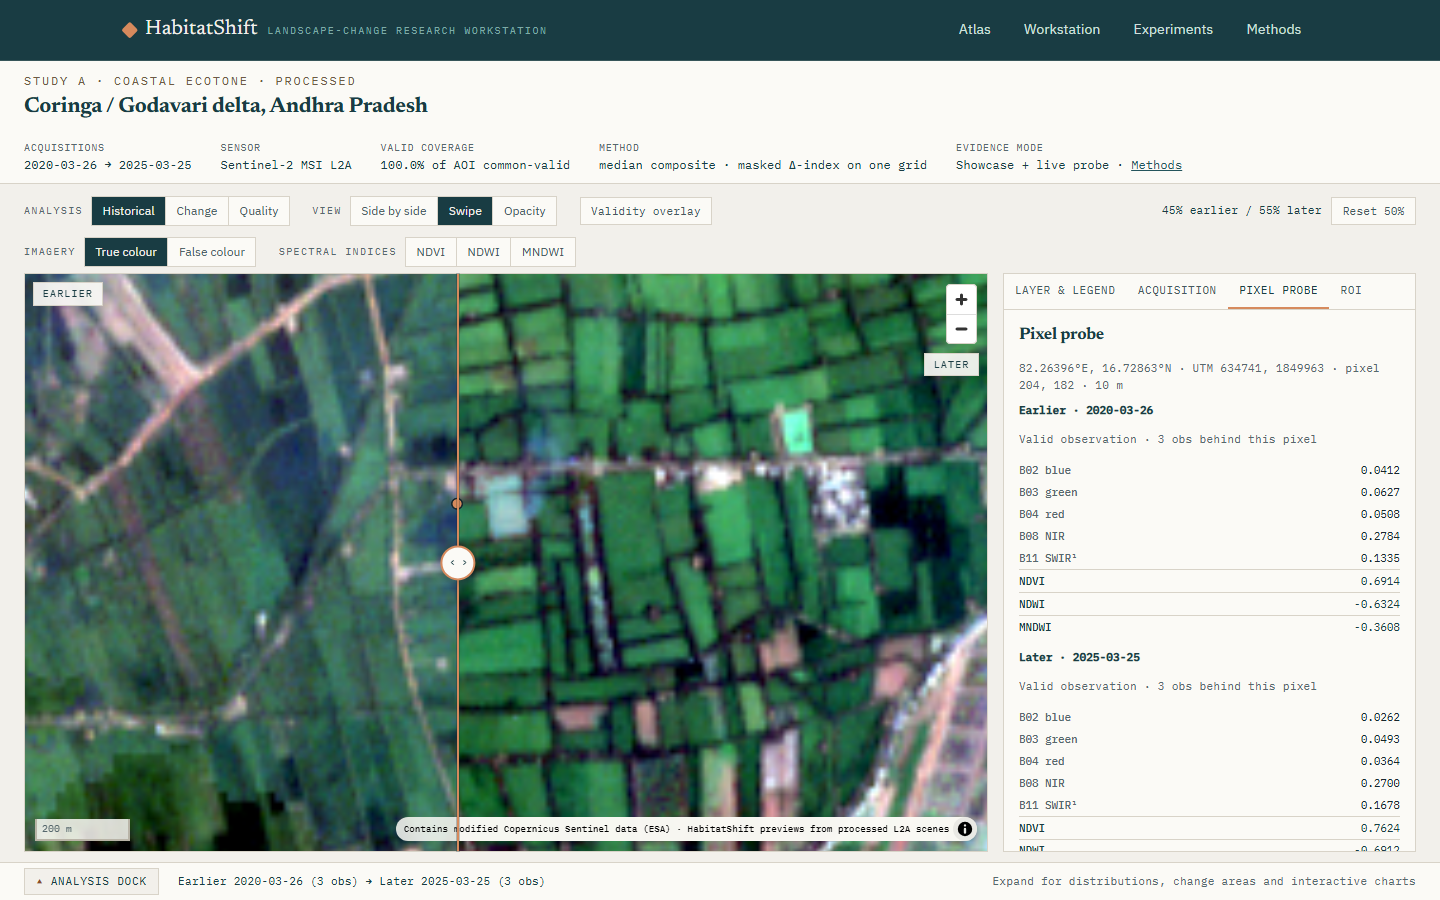
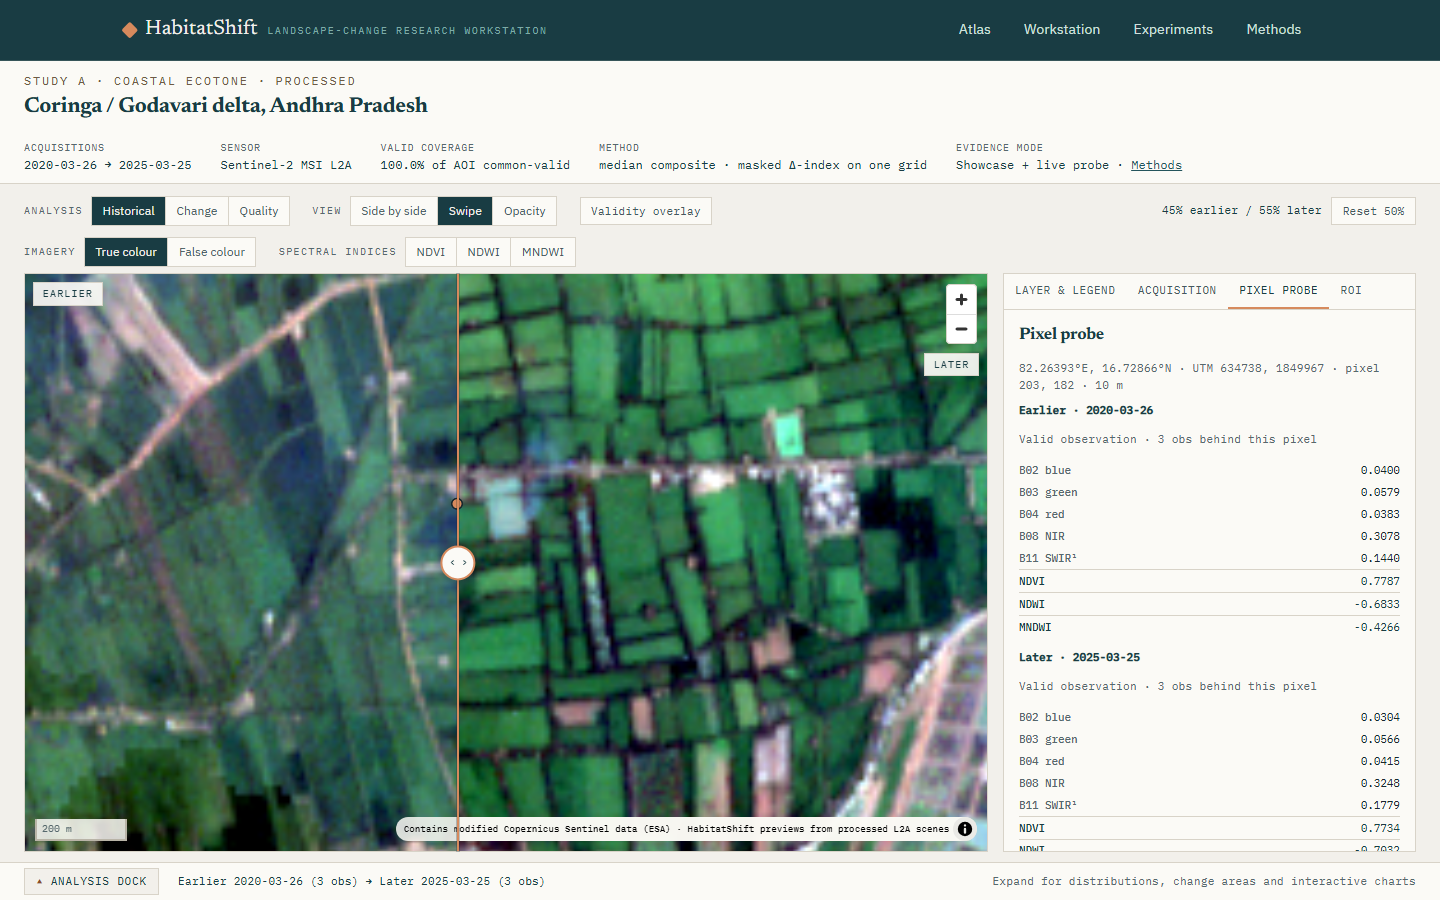
M4-R1 G2: quality coverage accounting distinguishes outside-AOI pixels from masked-inside-AOI; all six studies verified numerically; validity-layer note clarifies observation validity vs image quality

diff --git a/frontend/src/workstation/Inspector.tsx b/frontend/src/workstation/Inspector.tsx
@@ -56,9 +56,9 @@ function Facts({ rows }: { rows: [string, string][] }) {
   );
 }
 
-/** Measured coverage accounting with the correct denominators (M3 §8).
- *  Percentages of AOI use AOI pixels; the masked count is stated against the
- *  rectangular raster-grid footprint. */
+/** Measured coverage accounting with the correct denominators (M3 §8,
+ *  M4-R1 §4). Outside-AOI pixels and masked-inside-AOI pixels are distinct
+ *  quantities and are never merged into one number. */
 function QualityCoverage({ quality }: { quality: G0Quality | null }) {
   const coverage = quality?.coverage;
   const px = (value: number | undefined) =>
@@ -68,26 +68,55 @@ function QualityCoverage({ quality }: { quality: G0Quality | null }) {
       ? `${((pixels / coverage.aoi_pixels) * 100).toFixed(1)}% of AOI`
       : "";
   const uniform = coverage?.uniform_common ?? false;
+  // Derived with pure display arithmetic from the recorded counts; the two
+  // footprint differences are kept separate (M4-R1 §4).
+  const aoi = coverage?.aoi_pixels;
+  const grid = coverage?.grid_pixels;
+  const common = coverage?.common_valid_pixels;
+  const outsideAoi = coverage?.outside_aoi_pixels ??
+    (aoi !== undefined && grid !== undefined ? Math.max(0, grid - aoi) : undefined);
+  const maskedInsideAoi = coverage?.masked_inside_aoi_pixels ??
+    (aoi !== undefined && common !== undefined ? Math.max(0, aoi - common) : undefined);
+  const earlierInvalidInside =
+    aoi !== undefined && coverage?.earlier_valid_pixels !== undefined
+      ? Math.max(0, aoi - coverage.earlier_valid_pixels)
+      : undefined;
+  const laterInvalidInside =
+    aoi !== undefined && coverage?.later_valid_pixels !== undefined
+      ? Math.max(0, aoi - coverage.later_valid_pixels)
+      : undefined;
   return (
     <div className="quality-coverage">
       <h4 className="insp-subheading">Measured coverage</h4>
       <Facts
         rows={[
-          ["AOI pixels", px(coverage?.aoi_pixels)],
-          ["Grid pixels (rectangular footprint)", px(coverage?.grid_pixels)],
+          ["AOI pixels (study window)", px(coverage?.aoi_pixels)],
+          ["Grid pixels (rectangular raster footprint)", px(coverage?.grid_pixels)],
+          ["Outside AOI, inside grid footprint", `${px(outsideAoi)} (not observations)`],
           [
-            "Earlier valid",
+            "Earlier valid inside AOI",
             `${px(coverage?.earlier_valid_pixels)} ${pctOfAoi(coverage?.earlier_valid_pixels)}`,
           ],
           [
-            "Later valid",
+            "Later valid inside AOI",
             `${px(coverage?.later_valid_pixels)} ${pctOfAoi(coverage?.later_valid_pixels)}`,
+          ],
+          [
+            "Earlier-invalid inside AOI",
+            `${px(earlierInvalidInside)} ${pctOfAoi(earlierInvalidInside)}`,
+          ],
+          [
+            "Later-invalid inside AOI",
+            `${px(laterInvalidInside)} ${pctOfAoi(laterInvalidInside)}`,
           ],
           [
             "Shared valid (both periods)",
             `${px(coverage?.common_valid_pixels)} ${pctOfAoi(coverage?.common_valid_pixels)}`,
           ],
-          ["Masked or outside grid", px(coverage?.masked_pixels)],
+          [
+            "Masked inside AOI (≥1 period unusable)",
+            `${px(maskedInsideAoi)} ${pctOfAoi(maskedInsideAoi)}`,
+          ],
         ]}
       />
       {uniform ? (
@@ -107,12 +136,12 @@ function QualityCoverage({ quality }: { quality: G0Quality | null }) {
         </p>
       )}
       <p className="insp-note">
-        The AOI ({px(coverage?.aoi_pixels)} px) is the hand-chosen study window;
-        the exported rasters cover a slightly larger rectangular grid (
-        {px(coverage?.grid_pixels)} px). The {px(coverage?.masked_pixels)}-pixel
-        difference between those footprints is masked/outside-AOI — it is not
-        cloud damage. SCL flags do not record a per-pixel masking cause, so no
-        specific cause is claimed anywhere.
+        Two different footprint differences appear above and are kept separate:
+        the {px(outsideAoi)} pixels outside the AOI but inside the rectangular
+        grid are simply not part of the study window (not cloud damage), while
+        the {px(maskedInsideAoi)} masked-inside-AOI pixels were excluded by the
+        SCL quality flags in at least one period. SCL flags do not record a
+        per-pixel masking cause, so no specific cause is claimed anywhere.
       </p>
     </div>
   );

diff --git a/frontend/src/api/bundle.ts b/frontend/src/api/bundle.ts
@@ -346,16 +346,20 @@ export function qualityFromSummary(summary: M1Summary): G0Quality {
   const gridPixels = (summary.grid?.width ?? 0) * (summary.grid?.height ?? 0);
   const uniform =
     earlier?.valid_pixels === common && later?.valid_pixels === common;
+  const gridTotal = gridPixels || aoi;
   return {
     presentation_version: "bundle-derived/1",
     study_id: summary.study.study_id,
     coverage: {
       aoi_pixels: aoi,
-      grid_pixels: gridPixels || aoi,
+      grid_pixels: gridTotal,
       earlier_valid_pixels: earlier?.valid_pixels ?? 0,
       later_valid_pixels: later?.valid_pixels ?? 0,
       common_valid_pixels: common,
       masked_pixels: Math.max(0, aoi - common),
+      // M4-R1 §4: the two footprints are distinct and must never be summed.
+      outside_aoi_pixels: Math.max(0, gridTotal - aoi),
+      masked_inside_aoi_pixels: Math.max(0, aoi - common),
       earlier_valid_fraction_of_aoi: earlier?.valid_fraction ?? 0,
       later_valid_fraction_of_aoi: later?.valid_fraction ?? 0,
       common_valid_fraction_of_aoi: changeBlocks[0]?.common_valid_fraction_of_aoi ?? 0,

diff --git a/frontend/src/workstation/layers.ts b/frontend/src/workstation/layers.ts
@@ -274,7 +274,7 @@ function defaultQualityNote(layer: LayerSpec): string {
     if (layer.quality === "masked") {
       return "Light canvas: inside the AOI with valid observations. Hatched: masked (cloud, shadow, cirrus, saturation or nodata via the SCL layer) or outside the rectangular grid footprint. No specific cause is assigned per pixel — the SCL mask does not record one.";
     }
-    return "Neutral validity colours generated from the same valid-mask rasters the engine exported. Masked pixels are never interpolated or filled.";
+    return "Neutral validity colours generated from the same valid-mask rasters the engine exported. This layer records observation validity (was there a usable, unmasked observation?), not visual image sharpness and not a general quality score. Masked pixels are never interpolated or filled.";
   }
   if (layer.kind === "period" && layer.previewKey === "false_colour") {
     return "False colour (NIR, red, green) composite; vegetation appears in red tones. Per-band 2–98 percentile stretch on valid pixels.";

diff --git a/frontend/src/api/types.ts b/frontend/src/api/types.ts
@@ -205,6 +205,12 @@ export interface G0Quality {
     later_valid_pixels: number;
     common_valid_pixels: number;
     masked_pixels: number;
+    /** M4-R1 §4: pixels of the rectangular grid that lie outside the AOI.
+     *  These are NOT masked-inside-AOI observations. */
+    outside_aoi_pixels?: number;
+    /** M4-R1 §4: AOI pixels unusable in at least one period
+     *  (aoi − shared valid). Never mixed with outside-AOI pixels. */
+    masked_inside_aoi_pixels?: number;
     earlier_valid_fraction_of_aoi: number;
     later_valid_fraction_of_aoi: number;
     common_valid_fraction_of_aoi: number;
